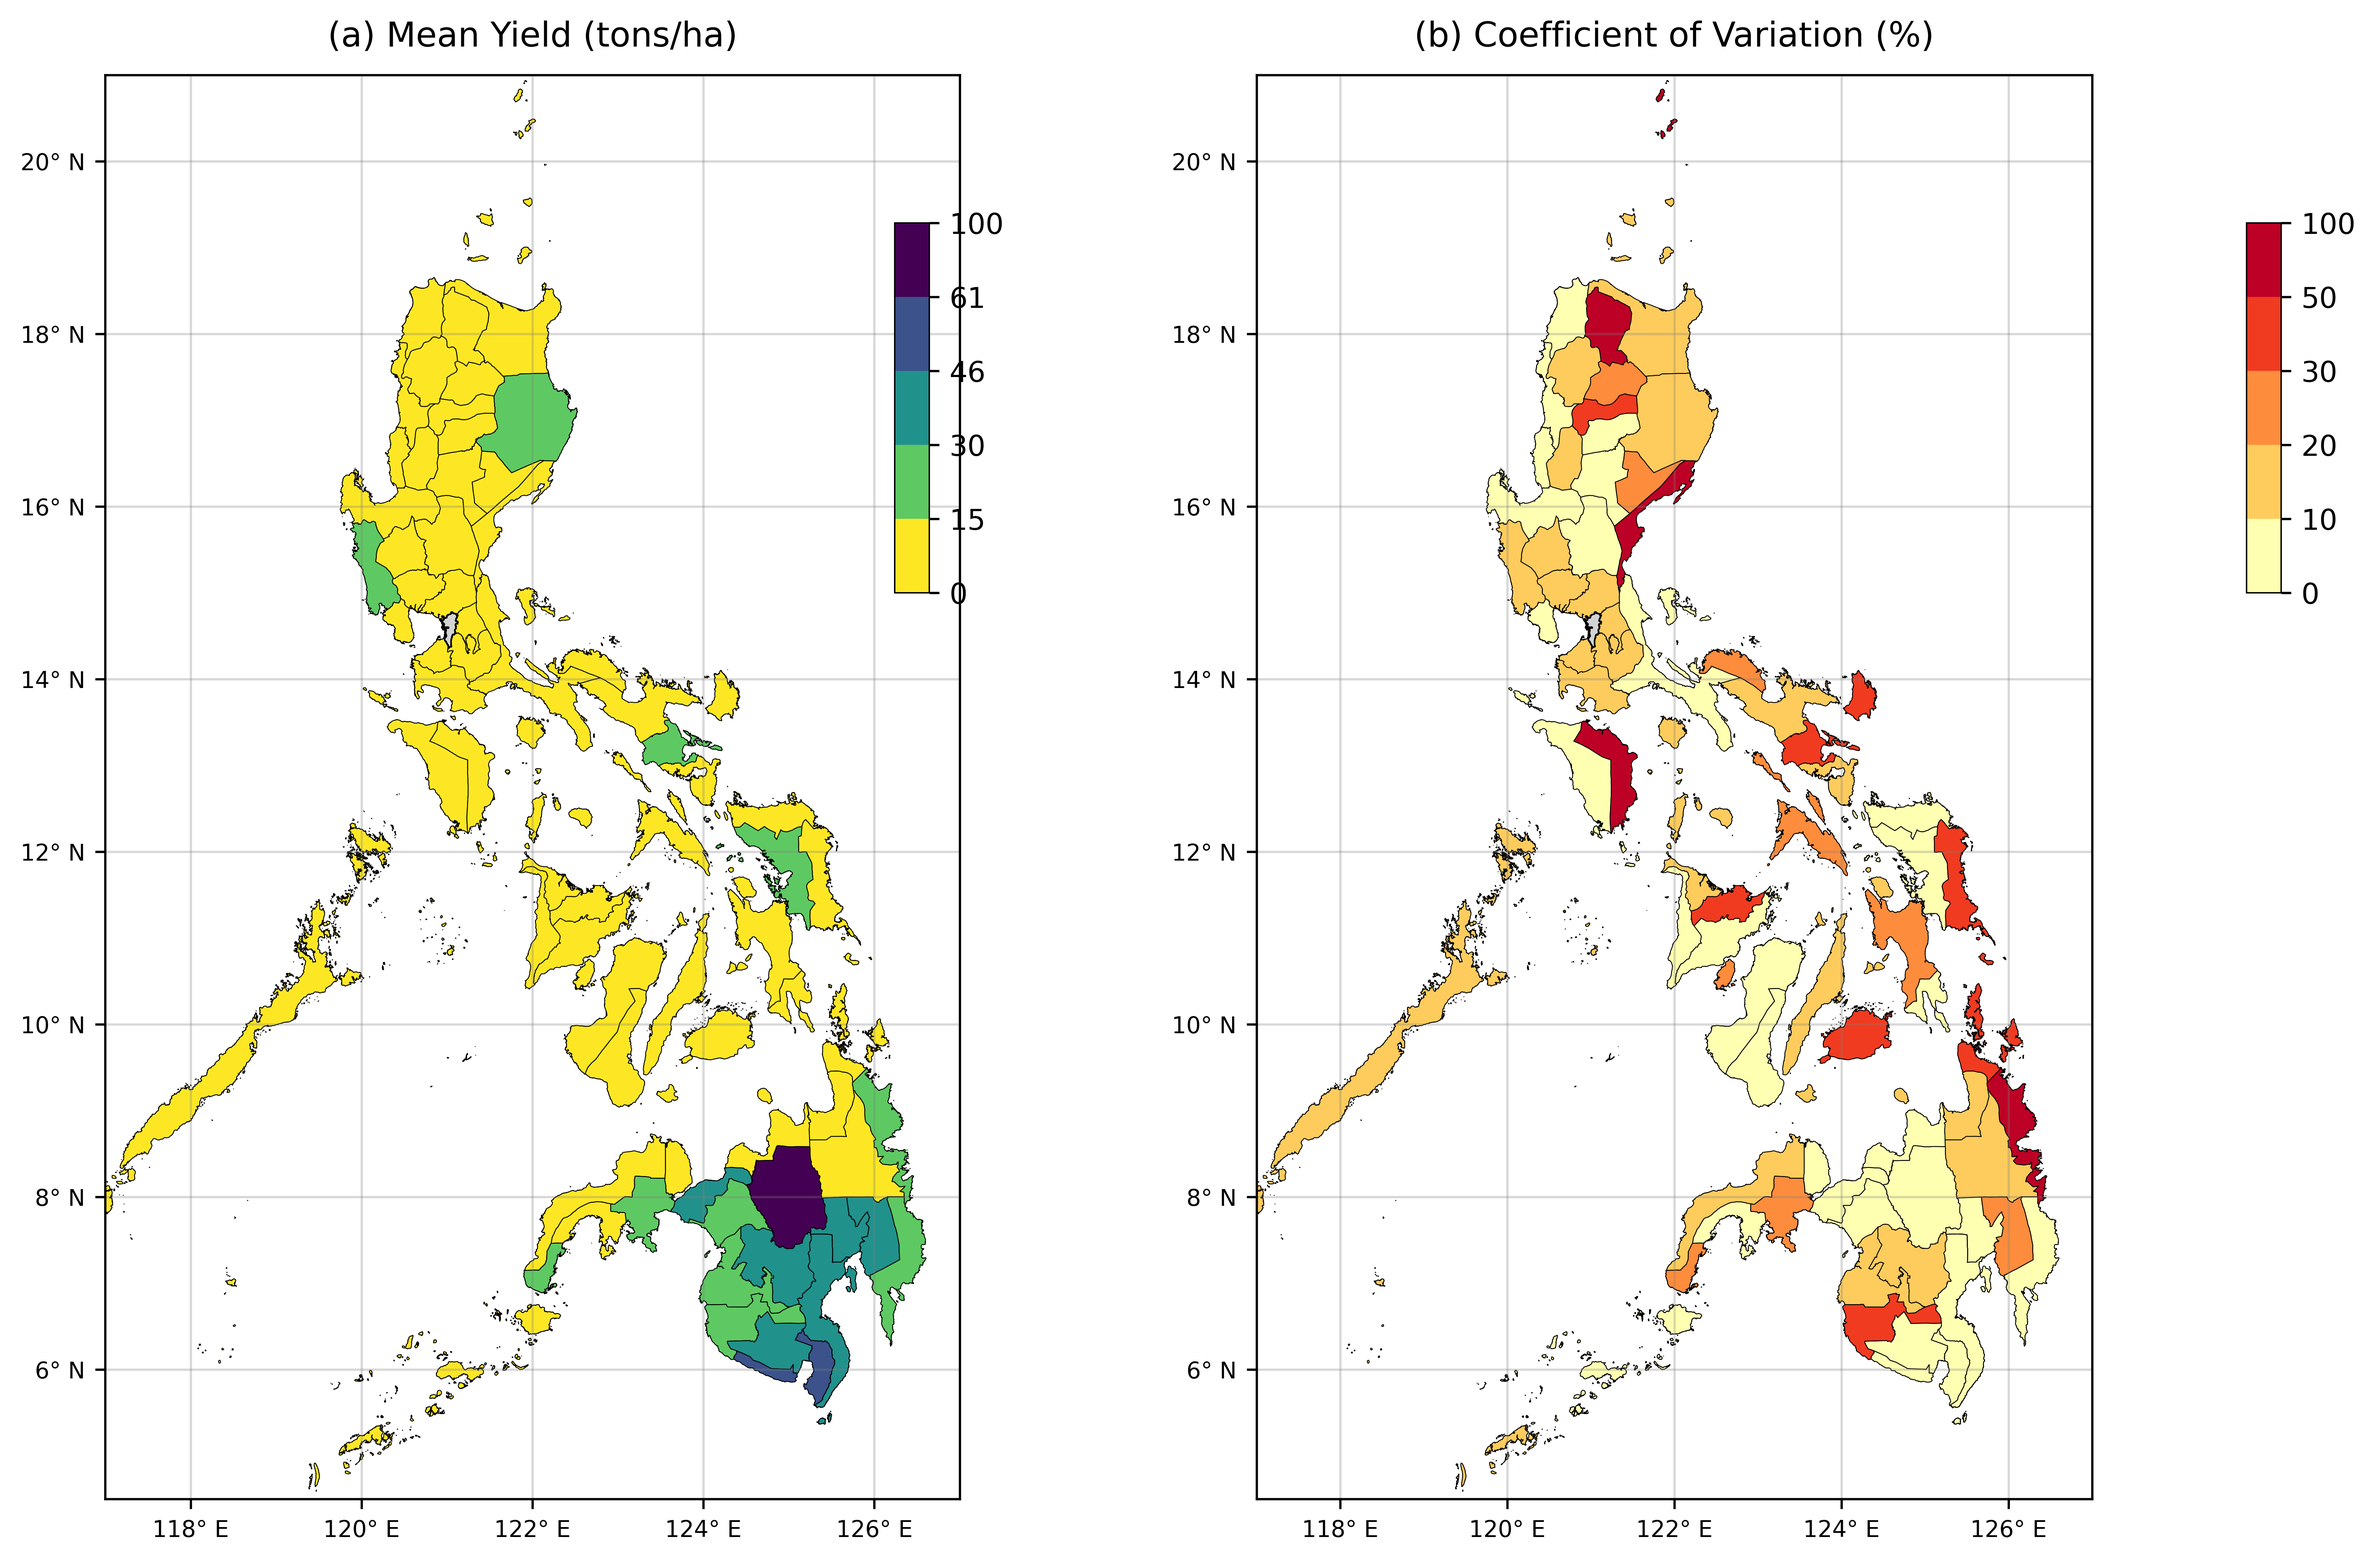
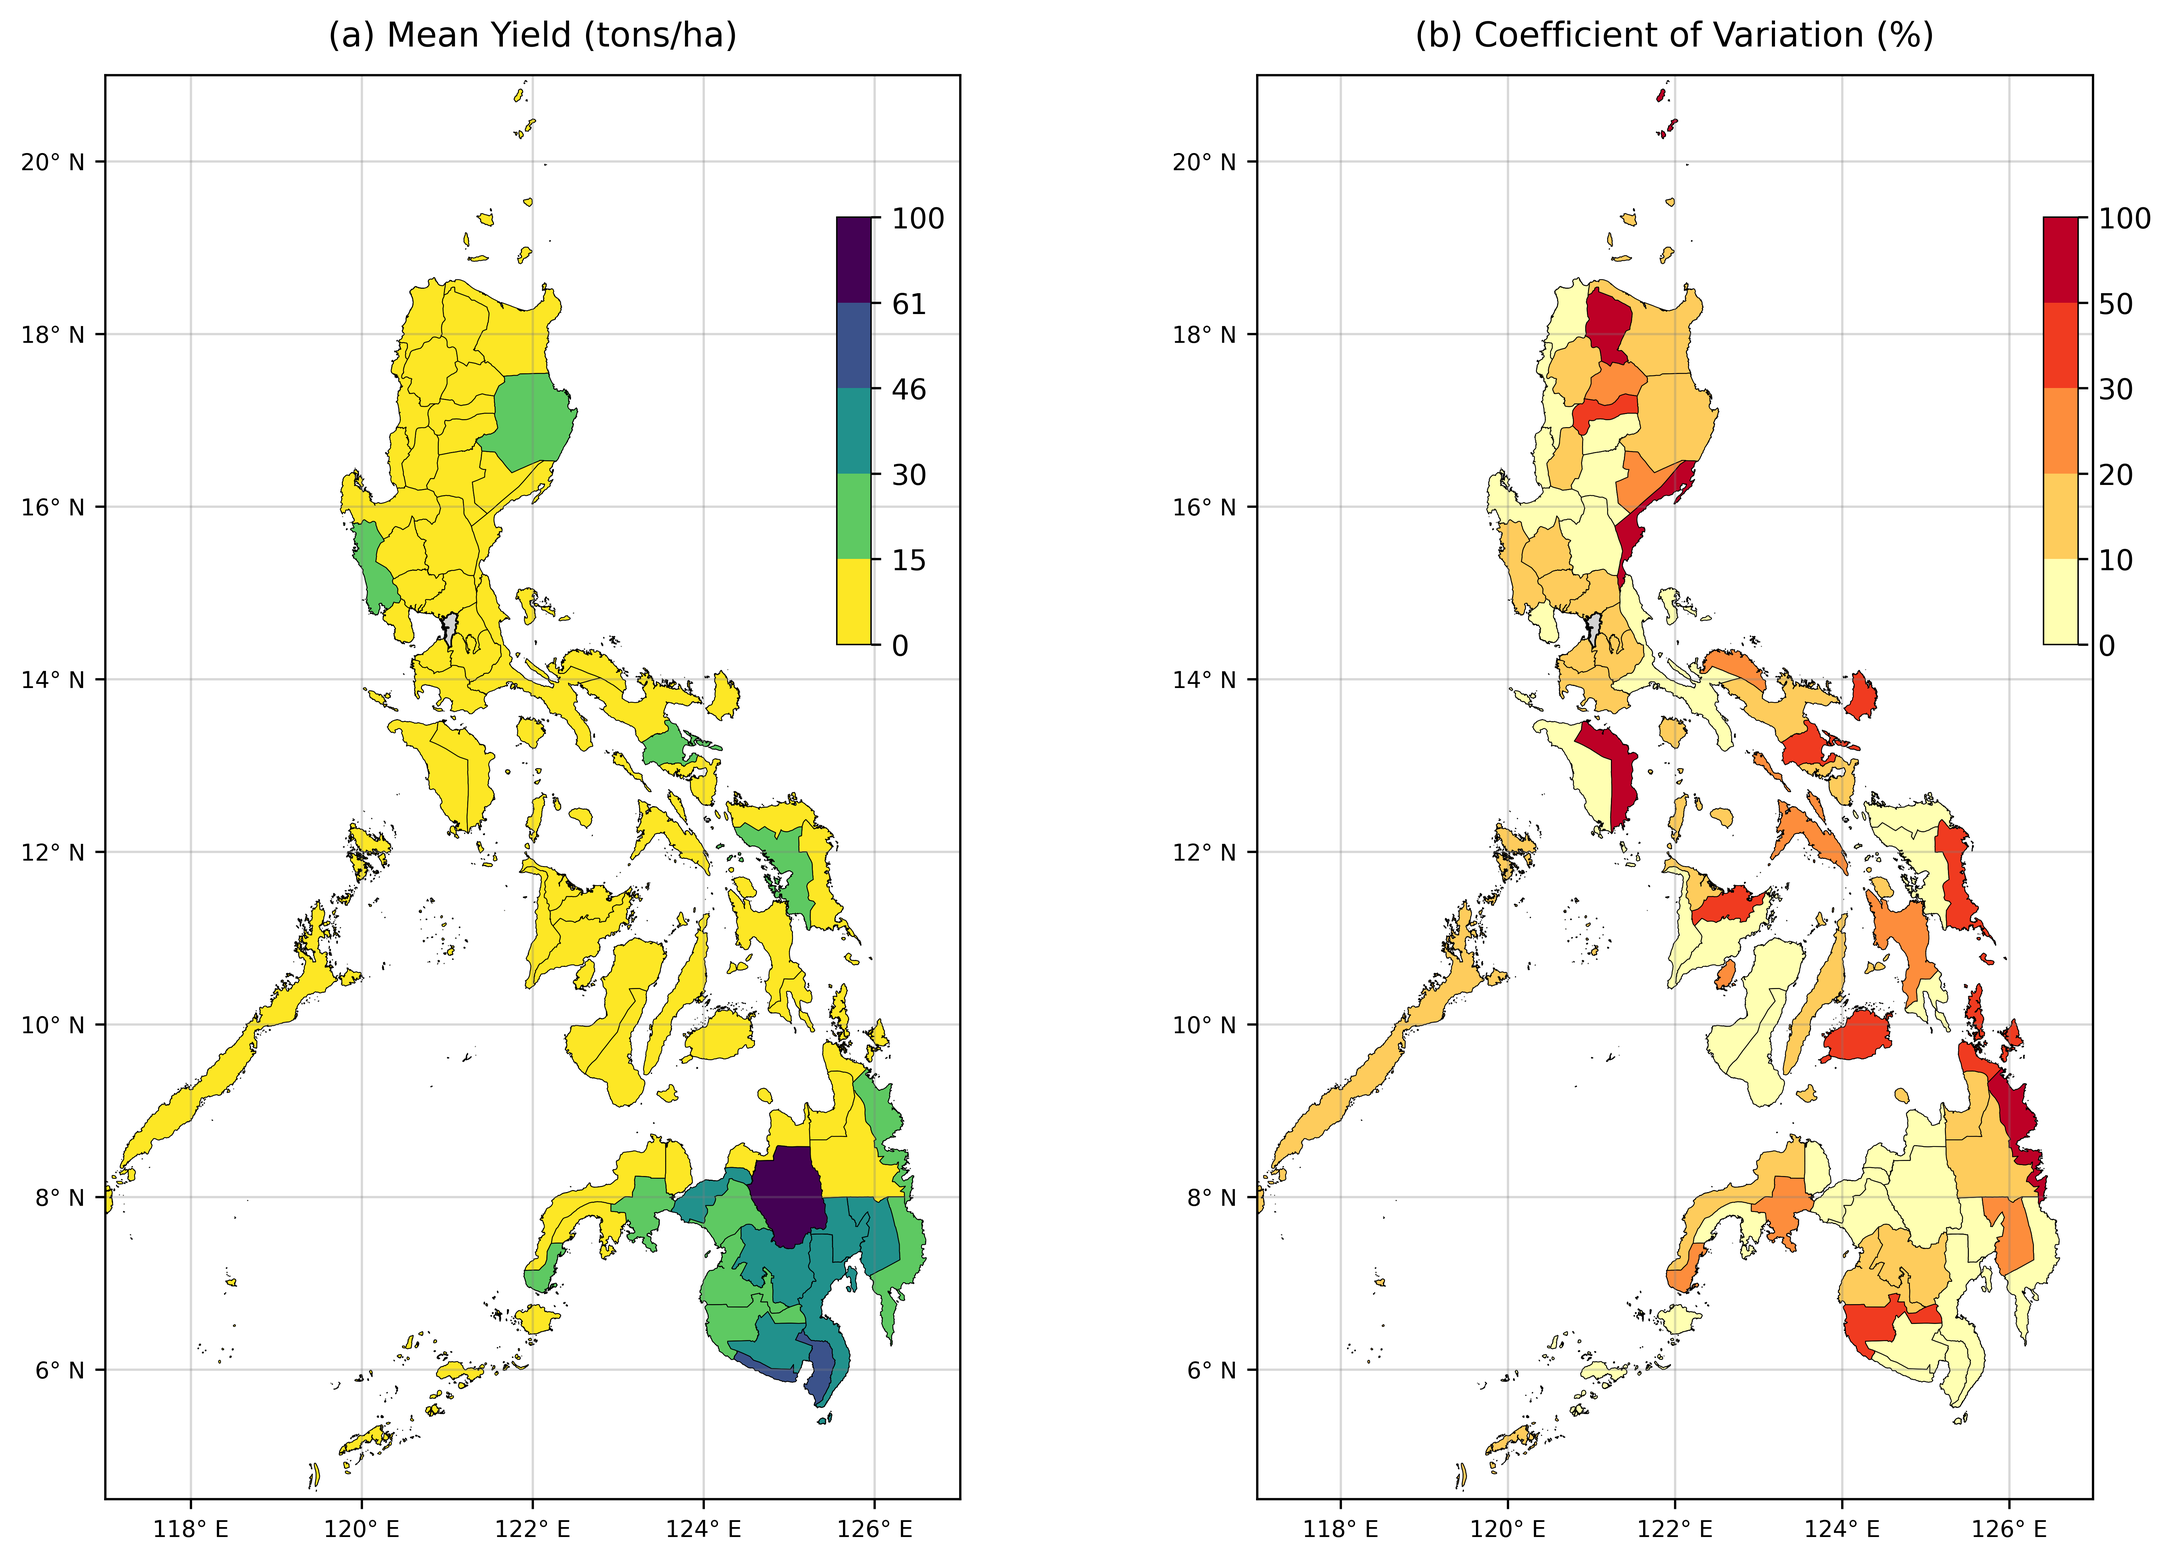
Fix colorbar positioning in combined Figure 2

diff --git a/Mapping/map.py b/Mapping/map.py
@@ -184,12 +184,13 @@ def create_combined_map(merged_data, output_dir):
 
     _style_axis(ax1, bounds, "(a) Mean Yield (tons/ha)")
 
-    # Mean Yield colorbar
+    # Mean Yield colorbar (inside panel a, upper-right)
     norm1 = BoundaryNorm(COLOR_BINS, len(COLORS) - 1)
     cmap1 = ListedColormap(COLORS[1:])
     sm1 = plt.cm.ScalarMappable(cmap=cmap1, norm=norm1)
     sm1.set_array([])
-    cax1 = fig.add_axes([0.44, 0.6, 0.012, 0.2])
+    pos1 = ax1.get_position()
+    cax1 = fig.add_axes([pos1.x1 - 0.03, pos1.y0 + pos1.height * 0.6, 0.012, pos1.height * 0.3])
     cbar1 = plt.colorbar(sm1, cax=cax1, ticks=COLOR_BINS, orientation='vertical')
     cbar1.set_ticklabels(['0', '15', '30', '46', '61', '100'])
     cbar1.outline.set_edgecolor('black')
@@ -208,12 +209,13 @@ def create_combined_map(merged_data, output_dir):
 
     _style_axis(ax2, bounds, "(b) Coefficient of Variation (%)")
 
-    # CV colorbar
+    # CV colorbar (inside panel b, upper-right)
     norm2 = BoundaryNorm(CV_BINS, len(CV_COLORS) - 1)
     cmap2 = ListedColormap(CV_COLORS[1:])
     sm2 = plt.cm.ScalarMappable(cmap=cmap2, norm=norm2)
     sm2.set_array([])
-    cax2 = fig.add_axes([0.91, 0.6, 0.012, 0.2])
+    pos2 = ax2.get_position()
+    cax2 = fig.add_axes([pos2.x1 - 0.03, pos2.y0 + pos2.height * 0.6, 0.012, pos2.height * 0.3])
     cbar2 = plt.colorbar(sm2, cax=cax2, ticks=CV_BINS, orientation='vertical')
     cbar2.set_ticklabels(['0', '10', '20', '30', '50', '100'])
     cbar2.outline.set_edgecolor('black')
